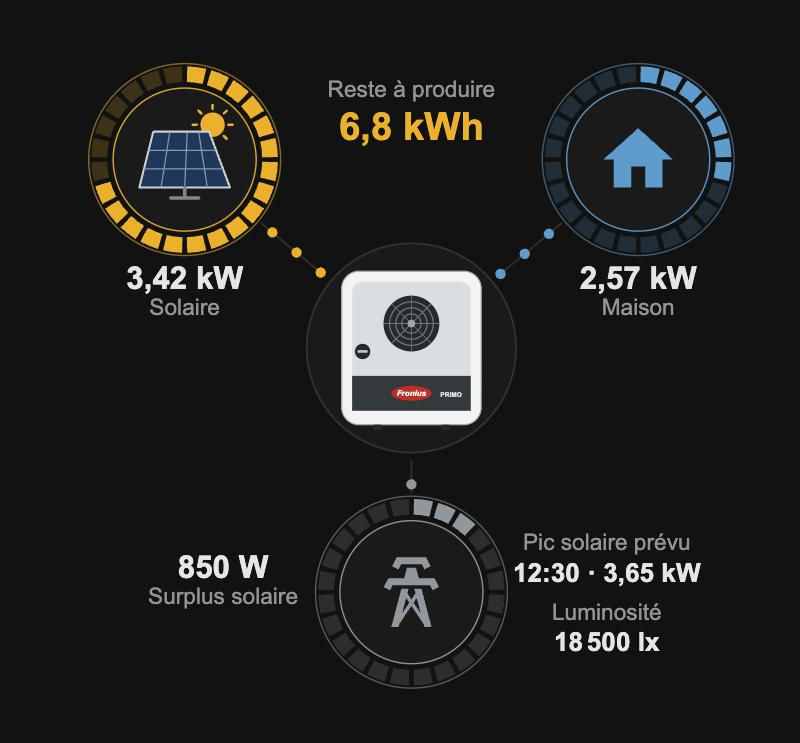
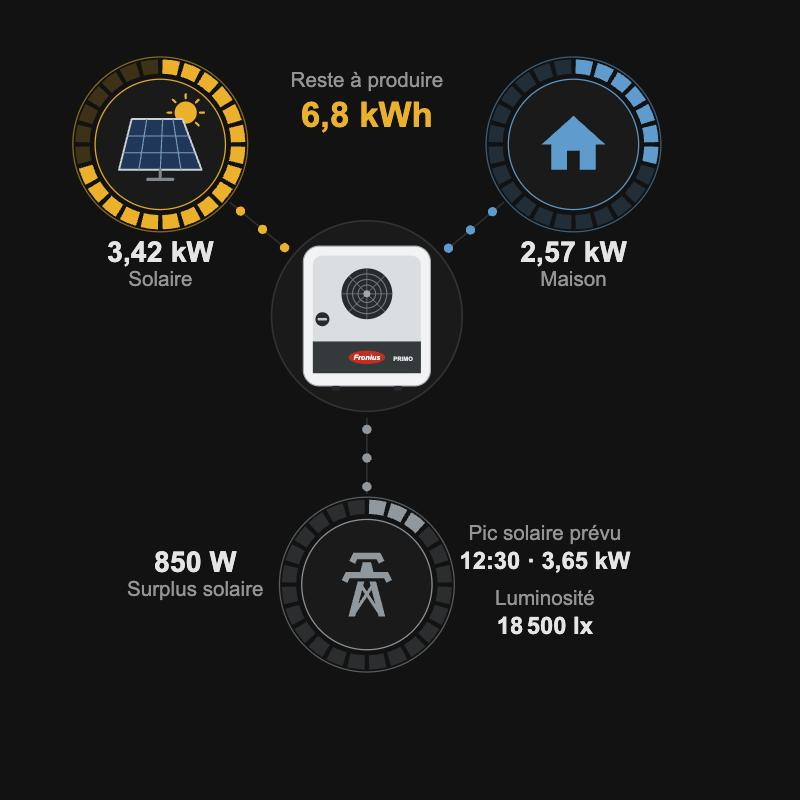
1.0.3: same link length for the grid in the compact layout
Without a battery and show_missing_battery: false, the grid now sits at the
same centre-to-centre distance as solar and home (link 48 instead of 19);
the card is slightly taller in that mode. Updated screenshot.

Changed region(s): [[0.0938, 0.0619, 0.875, 0.9287], [0.375, 0.0619, 0.9375, 0.4334], [0.5625, 0.2786, 0.5938, 0.3096]]

diff --git a/fronius-flow-card.js b/fronius-flow-card.js
@@ -4,7 +4,7 @@
  * Auto-detects the entities of the Fronius (official), Fronius Modbus and Solcast integrations.
  * MIT License. Not affiliated with or endorsed by Fronius International GmbH; "Fronius" and its logo are trademarks of their owner.
  */
-const CARD_VERSION = "1.0.2";
+const CARD_VERSION = "1.0.3";
 
 const I18N = {
   en: {
@@ -239,7 +239,8 @@ class FroniusFlowCard extends HTMLElement {
     const compact = this._config.show_missing_battery === false && !this._hasBattery;
     this._compact = compact;
     const layout = compact
-      ? { solar: NODES.solar, home: NODES.home, grid: { ...NODES.grid, x: 200, y: 310, labelX: 92, labelY: 302 } }
+      // Same centre-to-centre distance as solar and home (hypot(130, 108) ≈ 169), so the link has the same length.
+      ? { solar: NODES.solar, home: NODES.home, grid: { ...NODES.grid, x: 200, y: CENTER.y + Math.round(Math.hypot(130, 108)), labelX: 92, labelY: 331 } }
       : NODES;
     const nodes = Object.entries(layout)
       .map(([key, n]) => `<g class="node" data-node="${key}" style="--c:${n.color}" tabindex="0" role="button">
@@ -283,17 +284,17 @@ class FroniusFlowCard extends HTMLElement {
         .dim { opacity: .3; filter: grayscale(1); }
       </style>
       <ha-card>
-        <svg viewBox="0 0 400 ${compact ? 380 : 340}" role="img" aria-label="${esc(t(this._hass, "aria"))}">
+        <svg viewBox="0 0 400 ${compact ? 404 : 340}" role="img" aria-label="${esc(t(this._hass, "aria"))}">
           ${links}
           <circle class="hub" cx="${CENTER.x}" cy="${CENTER.y}" r="${CENTER.r}"/>
           <g transform="translate(0 10)">${inverter(this._config.inverter_label, this._config.inverter_logo !== false)}</g>
           ${nodes}
-          <g class="extra" data-role="peak_time_entity" tabindex="0" role="button" transform="${compact ? "translate(112 27)" : ""}">
+          <g class="extra" data-role="peak_time_entity" tabindex="0" role="button" transform="${compact ? "translate(112 52)" : ""}">
             <rect x="132" y="244" width="136" height="42" fill="transparent"/>
             <text class="lab" x="200" y="259" text-anchor="middle">${esc(t(this._hass, "peak"))}</text>
             <text class="mid peak" x="200" y="277" text-anchor="middle"></text>
           </g>
-          <g class="extra" data-role="lux_entity" tabindex="0" role="button" transform="${compact ? "translate(112 24)" : ""}">
+          <g class="extra" data-role="lux_entity" tabindex="0" role="button" transform="${compact ? "translate(112 50)" : ""}">
             <rect x="132" y="288" width="136" height="42" fill="transparent"/>
             <text class="lab" x="200" y="302" text-anchor="middle">${esc(t(this._hass, "lux"))}</text>
             <text class="mid lux" x="200" y="320" text-anchor="middle"></text>
